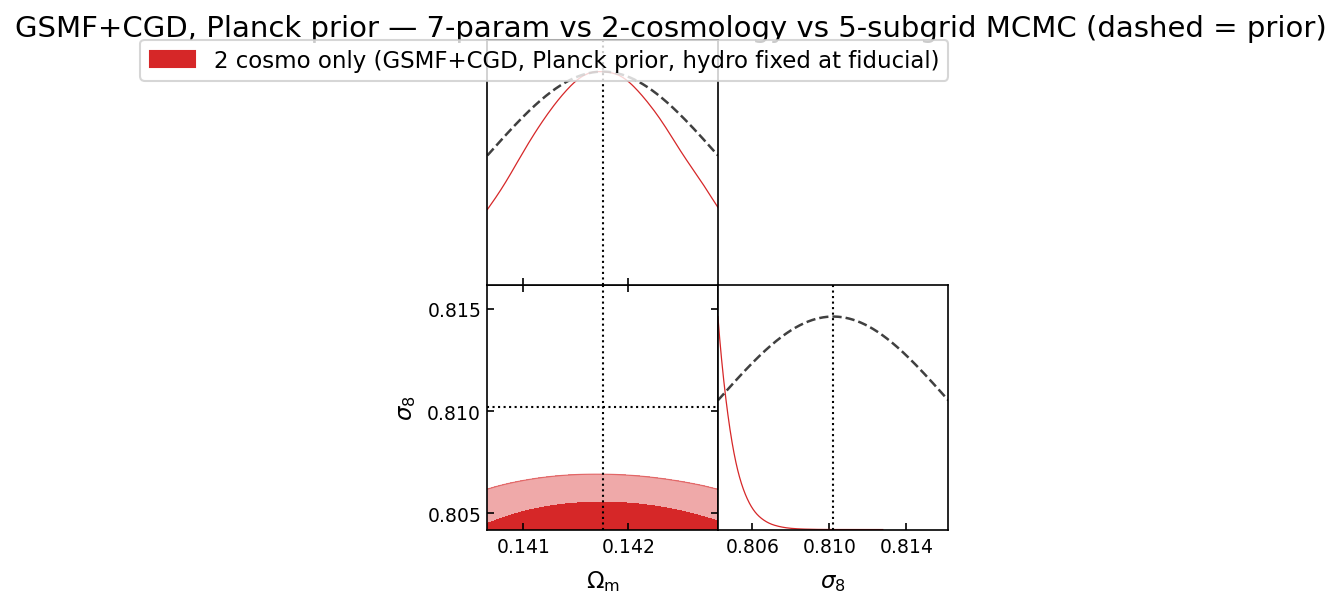
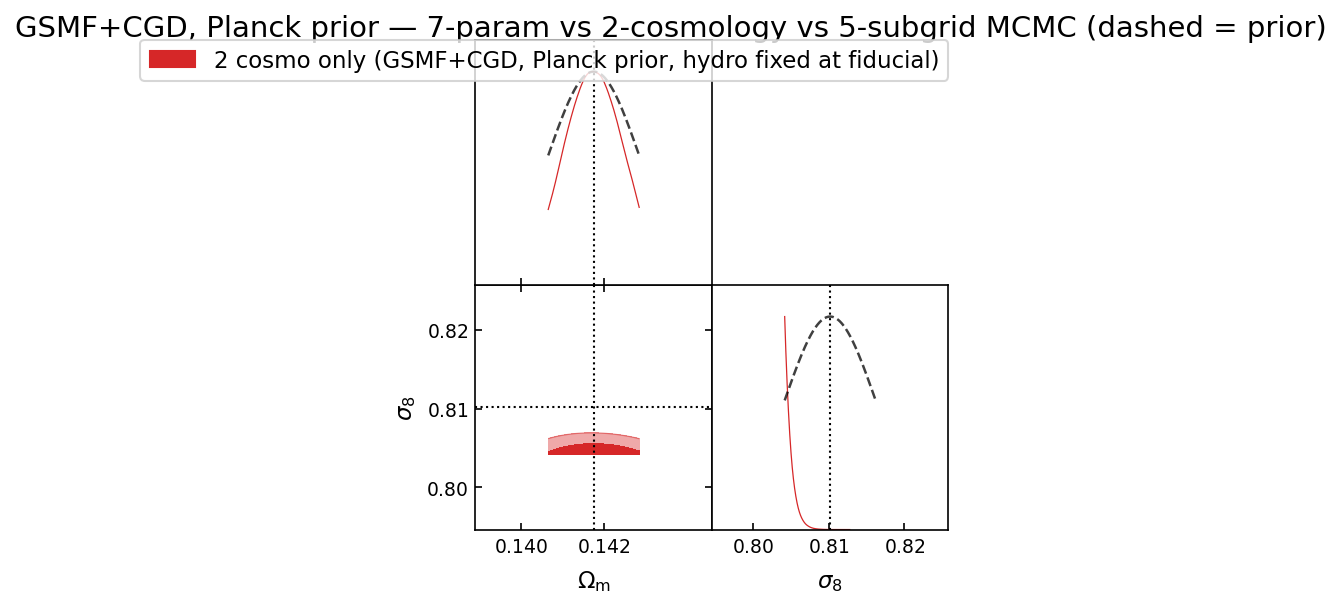
j28

diff --git a/Inference/diagnostics/likelihood_sweep_cosmo.py b/Inference/diagnostics/likelihood_sweep_cosmo.py
@@ -104,6 +104,70 @@ def plot_sweep(grid, res, xlabel, fid, edge_lo, edge_hi, title, fname):
     print(f'wrote {p}')
 
 
+def _trunc_logprior(x, mu, sigma, win):
+    """1D log Gaussian prior, -inf (here: very negative) outside hard window."""
+    lp = -0.5 * ((x - mu) / sigma) ** 2
+    if win is not None:
+        lp = np.where((x < win[0]) | (x > win[1]), -np.inf, lp)
+    return lp
+
+
+# Priors to compare: (label, sigma_om, sigma_s8, hard-window or None=design box).
+DESIGN_WIN = {'om': (0.12, 0.155), 's8': (0.70, 0.90)}
+TRUNC_WIN_1S = {'om': (0.14066, 0.14286), 's8': (0.8042, 0.8162)}  # fiducial +/-1 Planck sigma
+PRIOR_SET = [
+    ('flat (likelihood only)',          None,   None,   None,        'tab:gray'),
+    ('moderate Gaussian (0.005/0.03)',  0.005,  0.03,   DESIGN_WIN,  'tab:orange'),
+    ('Planck Gaussian, no hard cut',    0.0011, 0.006,  DESIGN_WIN,  'tab:green'),
+    ('Planck Gaussian + ±1σ hard cut',  0.0011, 0.006,  TRUNC_WIN_1S,'tab:red'),
+]
+
+
+def plot_prior_comparison(packs, fname):
+    """For GSMF+CGD (hydro at fiducial), overlay the 1D posterior on omega_m and
+    sigma_8 under several priors, to show which yields a COMPLETE (closed)
+    posterior vs which rails to the box edge or gets cut at a hard wall."""
+    fig, axes = plt.subplots(1, 2, figsize=(15, 5.2))
+    for ax, param, (lo, hi), mu, label in [
+            (axes[0], 'om', OM_RANGE, FID_OM, r'$\omega_m \equiv \Omega_m h^2$'),
+            (axes[1], 's8', S8_RANGE, FID_S8, r'$\sigma_8$')]:
+        grid = np.linspace(lo, hi, 600)
+        # GSMF+CGD log-likelihood along this axis (other param at fiducial)
+        lnL = np.zeros_like(grid)
+        for k, v in enumerate(grid):
+            om, s8 = (v, FID_S8) if param == 'om' else (FID_OM, v)
+            lnL[k] = sum(ll(p, om, s8) for p in packs.values())
+        # likelihood (max-subtracted), shown as a filled gray curve
+        ax.fill_between(grid, np.exp(np.clip(lnL - lnL.max(), -40, 0)), color='0.85',
+                        label='likelihood (flat-prior)')
+        for plabel, s_om, s_s8, win, color in PRIOR_SET:
+            if s_om is None:                       # flat: posterior = likelihood
+                post = lnL.copy()
+            else:
+                sig = s_om if param == 'om' else s_s8
+                w = None if win is None else win[param]
+                post = lnL + _trunc_logprior(grid, mu, sig, w)
+            if not np.isfinite(post).any():
+                continue
+            y = np.exp(post - np.nanmax(post[np.isfinite(post)]))
+            y[~np.isfinite(post)] = 0.0
+            ax.plot(grid, y, color=color, lw=2, label=plabel)
+        ax.axvline(mu, color='k', ls=':', lw=1.2)
+        for v in DESIGN_WIN[param]:
+            ax.axvline(v, color='k', ls='-', lw=0.8, alpha=0.4)
+        for v in TRUNC_WIN_1S[param]:
+            ax.axvline(v, color='tab:red', ls='--', lw=0.8, alpha=0.5)
+        ax.set_xlabel(label); ax.set_ylabel('posterior (peak-normalized)')
+        ax.set_ylim(0, 1.08); ax.grid(True, ls=':', alpha=0.3)
+    axes[0].legend(fontsize=8, loc='upper left')
+    fig.suptitle('GSMF+CGD cosmology posterior under different priors (hydro at fiducial)\n'
+                 'dotted=fiducial, thin solid=design-box edge, dashed red=±1σ hard window',
+                 fontsize=11)
+    p = os.path.join(OUT, fname)
+    fig.savefig(p, dpi=150, bbox_inches='tight'); plt.close(fig)
+    print(f'wrote {p}')
+
+
 def sweep_2d(packs, om_grid, s8_grid):
     """Return {case: 2D LL array of shape (len(s8_grid), len(om_grid))}.
     Cases: each observable plus the GSMF+CGD combination."""
@@ -207,6 +271,10 @@ def main():
         j, i = np.unravel_index(np.argmax(cases[c]), cases[c].shape)
         print(f'  {c:10s}: ({om2[i]:.4f}, {s82[j]:.3f})')
     plot_2d(om2, s82, cases, 'likelihood_sweep_2d.png')
+
+    # posterior under different priors (the "which prior gives a complete
+    # posterior" exploration)
+    plot_prior_comparison(packs, 'prior_comparison.png')
 
 
 if __name__ == '__main__':

diff --git a/Inference/plot_7p_vs_2cosmo_5subgrid.py b/Inference/plot_7p_vs_2cosmo_5subgrid.py
@@ -38,6 +38,12 @@ MODERATE_PRIOR = {'omega_m': (FID_OM, 0.005, 0.12, 0.155),
 TRUNC_PRIOR = {'omega_m': (FID_OM, 0.0011, 0.14066, 0.14286),
                'sigma_8': (FID_S8, 0.006,  0.8042, 0.8162)}
 
+# Full design-box (valid emulator) range for the cosmology params. Used to pad
+# the axis a bit OUTSIDE a tight prior window so the hard wall is visible (the
+# chain's KDE is still clipped at its own range, so nothing leaks).
+COSMO_VALID = {'omega_m': (0.12, 0.155), 'sigma_8': (0.70, 0.90)}
+AXIS_PAD_FRAC = 0.8   # pad each side by this fraction of the prior-window width
+
 SETTINGS = {'mult_bias_correction_order': 0.5,
             'smooth_scale_2D': 4, 'smooth_scale_1D': 4}
 
@@ -128,6 +134,23 @@ def overlay_priors(g, names, ranges, cosmo_prior):
         ax.set_ylim(0, 1.15)
 
 
+def axis_limits(names, ranges):
+    """Axis limits per parameter. Subgrid params use the chain range (= valid
+    range). Cosmology params get padded a bit OUTSIDE the (possibly tight) prior
+    window, clamped to the design box, so the hard wall is visible on the plot."""
+    lim = {}
+    for nm in names:
+        kind = _cosmo_kind(nm)
+        lo, hi = ranges[nm]
+        if kind in COSMO_VALID:
+            pad = (hi - lo) * AXIS_PAD_FRAC
+            vlo, vhi = COSMO_VALID[kind]
+            lim[nm] = (max(vlo, lo - pad), min(vhi, hi + pad))
+        else:
+            lim[nm] = (lo, hi)
+    return lim
+
+
 def _plotter():
     g = plots.get_subplot_plotter(subplot_size=2.0)
     g.settings.axes_fontsize = 12
@@ -169,7 +192,7 @@ def make_triangle(obs_label, t7p, t2c, t5p, output, cosmo_prior=MODERATE_PRIOR):
 
     g = _plotter()
     g.triangle_plot(mcs, params=names, filled=True, legend_labels=labels,
-                    param_limits=ranges, contour_colors=colors)
+                    param_limits=axis_limits(names, ranges), contour_colors=colors)
     fiducial_crosshairs(g, names)
     overlay_priors(g, names, ranges, cosmo_prior)
     plt.suptitle(f'{obs_label} — 7-param vs 2-cosmology vs 5-subgrid MCMC '
@@ -196,7 +219,7 @@ def make_7p_comparison(suites, output, cosmo_prior=MODERATE_PRIOR):
         return
     g = _plotter()
     g.triangle_plot(mcs, params=names_ref, filled=True, legend_labels=labels,
-                    param_limits=ranges_ref, contour_colors=colors)
+                    param_limits=axis_limits(names_ref, ranges_ref), contour_colors=colors)
     fiducial_crosshairs(g, names_ref)
     overlay_priors(g, names_ref, ranges_ref, cosmo_prior)
     plt.suptitle('7-param MCMC comparison (dashed = prior)', y=1.005, fontsize=14)
